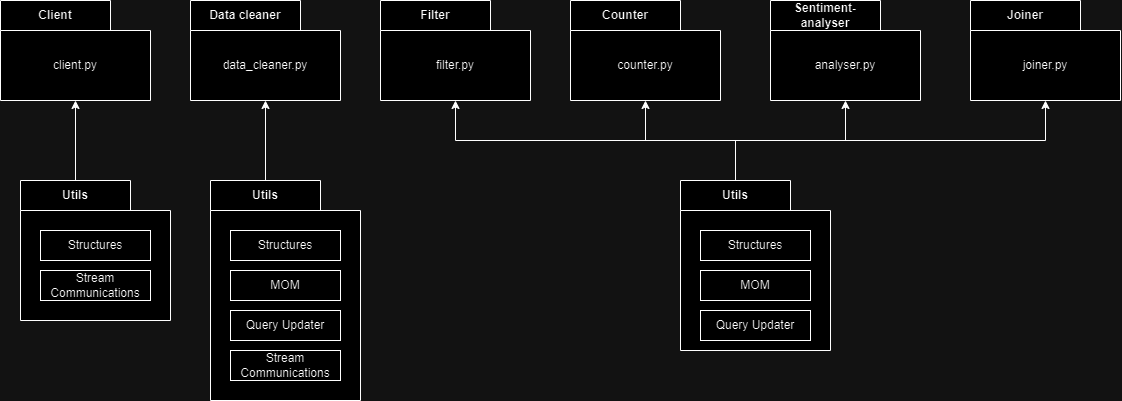
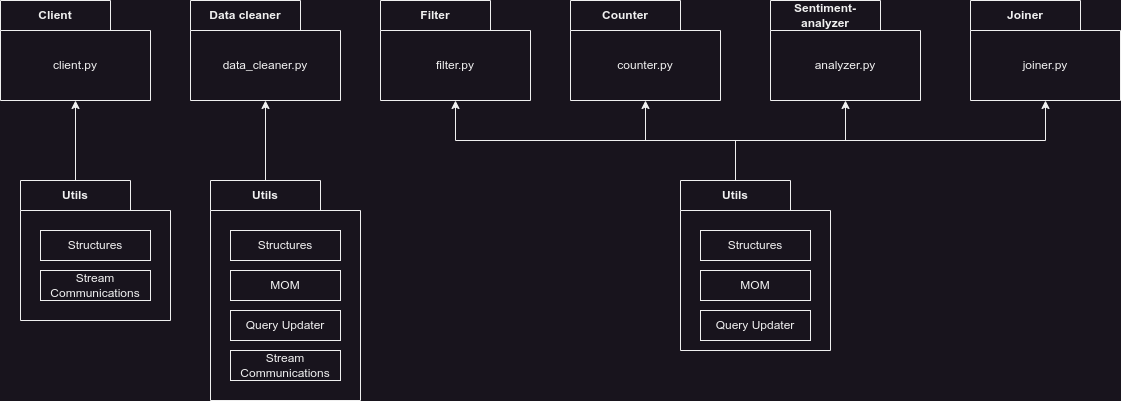
chore: Remove unused Dockerfile and .env files, update sentiment analyzer class name

diff --git a/src/rabbitmq-test/send_receive.py b/src/rabbitmq-test/send_receive.py
@@ -29,7 +29,7 @@ def publish(routing_key):
     channel = connection.channel()
 
     message = f"Hello to {routing_key}!"
-    channel.basic_publish(exchange='books-analyser_exchange',
+    channel.basic_publish(exchange='books-analyzer_exchange',
                           routing_key=routing_key,
                           body=message)
     print(f"Sent: '{message}' (msg) to '{routing_key}' (routing key).")
@@ -40,7 +40,7 @@ def main():
     load_dotenv()
 
     # List of queues and corresponding routing keys
-    queues = ['books-analyser.data_processor.filter', 'books-analyser.data_processor.counter', 'books-analyser.data_processor.sentiment_analysis', 'books-analyser.data_processor.joiner_books', 'books-analyser.data_processor.joiner_reviews', 'books-analyser.results']
+    queues = ['books-analyzer.data_processor.filter', 'books-analyzer.data_processor.counter', 'books-analyzer.data_processor.sentiment_analysis', 'books-analyzer.data_processor.joiner_books', 'books-analyzer.data_processor.joiner_reviews', 'books-analyzer.results']
     routing_keys = ['filter', 'counter', 'sentiment_analysis', 'joiner_books', 'joiner_reviews', 'results']
 
     for routing_key in routing_keys:

diff --git a/src/sentiment-analyzer/analyzer.py b/src/sentiment-analyzer/analyzer.py
@@ -23,7 +23,7 @@ SENTIMENT_FILTER = "SENTIMENT"
 MAX_AMOUNT_OF_FRAGMENTS = 500
 TIMEOUT = 50
 
-class Analyser:
+class analyzer:
     def __init__(self):
         logger.basicConfig(stream=sys.stdout, level=logger.INFO)
         load_dotenv()
@@ -71,10 +71,10 @@ class Analyser:
             self.mom.ack(tag)
 
 def main() -> None:
-    analyser = Analyser()
-    analyser.run()
-    if not analyser.exit:
-        analyser.mom.close()
+    analyzer = analyzer()
+    analyzer.run()
+    if not analyzer.exit:
+        analyzer.mom.close()
 
 if __name__ == "__main__":
     main()

diff --git a/notes.md b/notes.md
@@ -1,0 +1,57 @@
+**Sobre el informe 4+1:**  
+- <span style="color:red"> 🔥 major:</span> Un sistema tan complejo como el que desarrollaron ustedes, donde se tienen Chunks, DataFragments, QueryInfo, mensajes con meta información para entender la ruta que van a tomar, etc.. merece tener una documentación a la altura para que cualquier persona lo pueda entender. Esto no lo explican en ningún lado, podrían haber explicado cómo se relacionan estas clases y como funcionan con un diagrama de clase en la vista lógica, o con una descripción textual.
+- <span style="color:yellow"> ❕minor:</span> Sería bueno sumar sobre las flechas del DAG, los campos/atributos que se envían en cada mensaje, para entender qué cosas se filtran (por ejemplo).
+- <span style="color:yellow"> ❕minor:</span> En la entrega no se especificó en ningún lado las instrucciones para ejecutar el sistema.
+
+**Sobre el código / solución:**
+- <span style="color:red"> 🔥 major:</span> La ejecución de la demo grabada demoró más de 1 hora. Esto es un tiempo bastante grande y habla de optimizaciones que no se hicieron pero que pudieron haberse hecho. 
+- <span style="color:red"> ✨ ~~major:~~ </span> ~~La función update_data_fragment_step de query_updater se invoca múltiples veces entre los distintos tipos de nodo, para cada fragmento (cada review o libro, osea al menos 3 millones de veces), por ejemplo en los filtros tienen:~~
+
+```py
+    def filter_data_chunk(self,chunk: DataChunk):
+        for fragment in chunk.get_fragments():
+            if self.exit:
+                return
+            if self.filter_data_fragment(fragment):
+                # -> código actualizado <-
+```
+
+~~La llamada a update_data_fragment_step parece inofensiva, pero se hace casi 2 veces por cada data fragment (2 * 3M), solamente en los filtros, y esa función por dentro tiene múltiples loops con evaluaciones del estilo _update_first_query() a las cuales se le pasa como parámetro data_fragment.clone()~~
+
+~~¿Es necesario clonar la información? ¿Es necesario calcular varias veces en el mismo filtro, nodo, etc los "next steps"? Esto que parece inofensivo, es copiar memoria una y otra vez, millones de veces, y me parece que se puede evitar pasando una referencia al objeto en lugar de una copia, y en el filtro/nodo calculando una sóla vez los "next steps" para el fragmento. Vi uso de clone() en varios lugares, el uso de esto debe estar bien justificado, ya que implica copiar memoria y con los volúmenes de información que manejamos parece ser una mala idea. Este punto está relacionado con el primero, ya que les pega en la performance y puede contribuir a que el sistema les tarde tanto en ejecutar.~~
+
+- <span style="color:red"> 🔥 major:</span> Otro punto relacionado al descarte temprano de datos para mejorar la eficiencia. La Query 3 pide "Títulos y autores de libros publicados en los 90' con al menos 500 reseñas.". Sin embargo, en todo los steps intermedios que tiene la Query 3, nunca descartan el atributo "review/text" (el que tiene varios bytes de texto libre), si descartaran esa información innecesaria lo antes posible, tendrán menos cantidad de datos viajando por la red y replicados en memoria, por lo tanto mejor rendimiento. El campo "review/text" se necesita únicamente para el cálculo del sentimient, cosa que podrían hacer en una etapa temprana sin pasar por varios steps (y sin hacer varios .clones() innecesarios como les marqué en el punto anterior).
+
+- <span style="color:red"> ✨ ~~major:~~ </span> ~~Fragmento de código del Joiner~~
+
+```py
+    def save_book_in_table(self,book: Book, query_id: str):
+        if query_id not in self.books_side_tables.keys():
+            self.books_side_tables[query_id] = {}
+        # -> código actualizado <-
+```
+
+~~¿Como funciona esta side table? Por que es necesaria una array de arrays en lugar de un mapa title -> book ? Acá pueden tener información redundante, otro punto que puede pegar en la performance. Además, vi que devuelven NACK en el joiner si falta info en la side table. Esto lo pueden evitar haciendo lo que les comenté en algún meet: primero ingestan libros, luego envían EOF, y ahi sus nodos saben que pueden empezar a leer reviews.~~
+
+- <span style="color:red"> 🔥 major:</span> En el método read_chunk_with_columns de client.py se pueden perder mensajes si el archivo no tiene una cantidad de registros exactamente igual a un múltiplo de CHUNK_SIZE.
+
+- <span style="color:red"> ✨ ~~major:~~ </span> ~~Uso de sleeps() en varios puntos del código, en forma injustificada. ¿A que se deben estos sleeps? Pueden evidenciar malas prácticas de sincronización.~~
+
+- <span style="color:red"> 🔥 major:</span> Filtran datos en client-side. En la función "parse_data" de client.py se toman algunos atributos de data pero otros se setean en NoNe. Esto es un filtrado que se hace del lado del cliente. Esto debería hacerse del lado del servidor. Además, veo que no filtran todos los datos innecesarios, y esto les puede estar afectando a los tiempos de ejecución (ejemplo: id de review, helpfulness, summary, son datos que no se necesitan para nada). Los datos deben filtrarse del lado del servidor, el nodo data_cleaner es un buen candidato. Aquí mismo tienen que eliminar esas columnas que no se necesitan para que no les meta datos innecesarios en todas las etapas posteriores.
+
+- <span style="color:yellow"> ❕minor:</span> Confuso algoritmo de formación de chunks y de conformación de data_fragments. En parse_data de client.py, desambiguan si el dato es un libro o una review por la cantidad de columnas del registro, si casualmente tuvieran la misma cantidad de "columnas" relevantes este algoritmo no serviría. Se confunde semánticamente los chunks que leen del disco, con los chunks de información que contienen data fragments. Toda esta sobre-comlpejidad se podría haber documentado en un diagrama de clases aprovechando la vista lógica.
+
+- <span style="color:orange"> ⚠ medium: </span>  El TP exige que siempre se contesten las 5 queries, esto es algo que pueden asumir y que va a ser siempre cierto. Hay 3 millones de reviews, entonces al menos van a tener 1 millón de data fragments, todos ellos con el valor de queries en "1,2,3,4,5"... Ese string tiene 9 bytes, multipliquen por 3 millones y eso son datos innecesarios que tienen en memoria, viajando por red, etc...
+
+
+**<span style="color:#7DDA58"> Arreglos: </span>**
+- Se eliminaron las llamadas repetidas a `update_data_fragment_step`. Ahora se hace una única vez por fragmento en cada nodo (y si es necesario, sino no).
+- Se redujeorn la cantidad de clones a la mínima necesaria en `update_data_fragment_step`. Como esa función demultiplexa es imposible evitar los clones, pero se redujeron al mínimo.
+- Respecto a los clones que se hacen en el nodo `counter`, fueron todos reemplazados por hacer el data fragment desde cero, ya que sólo contiene las queries que le corresponden.
+- Para tener dos EOFs (uno para libros y otro para reviews), se verificó lo siguiente:
+    - Los nodos counter, filter, y sentiment analyzer no procesan el last data fragment, lo utilizan para enviar el chunk que corresponda.
+    - El joiner usa el EOF de libros para saber que ya puede comenzar a procesar reviews, y el EOF de reviews para enviar el chunk que corresponda.
+    - La función `update_data_fragment_step` actualiza el last data fragment según correponda, entendiendo que hay dos tipos (uno para books y otro para reviews).
+- Respecto a la side table del joiner, no era un array de arrays, sino que un diccionario de diccionarios. Tenía la forma `{query_id1: {title1: book1, ..., titlen: bookn}, ..., query_idn: {title1: book1, ..., titlen: bookn}}`, en donde cada query guardaba los libros que le pertenecían. Es necesario diferenciar los libros por queries ya que el joiner a cierto modo funciona como filter de las reviews para las que su libro no pasó un filtro anterior. Para reducir el espacio con el que se trabaja, ahora se guarda el título del libro, y los libros completos son guardados una única vez en un diccionario auxiliar.
+- Respecto al algoritmo para recibir books o reviews en el joiner, ahora se aceptan libros al principio, hasta completar la primer side table que se reciba. Luego de completar la side table se pasan a procesar las reviews. Si una review corresponde a una sidetable que todavía no se completó se manda el NACK para esa review, se aceptan libros hasta completar la side table correspondiente y luego se procesan las reviews. Se realia de esa forma debido a que se pueden necesitar más de una side table según las queries que se reciban.
+- Se eliminaron todos los sleep que no eran necesarios. (Queda uno en client y otro en el data cleaner -> revisar)
